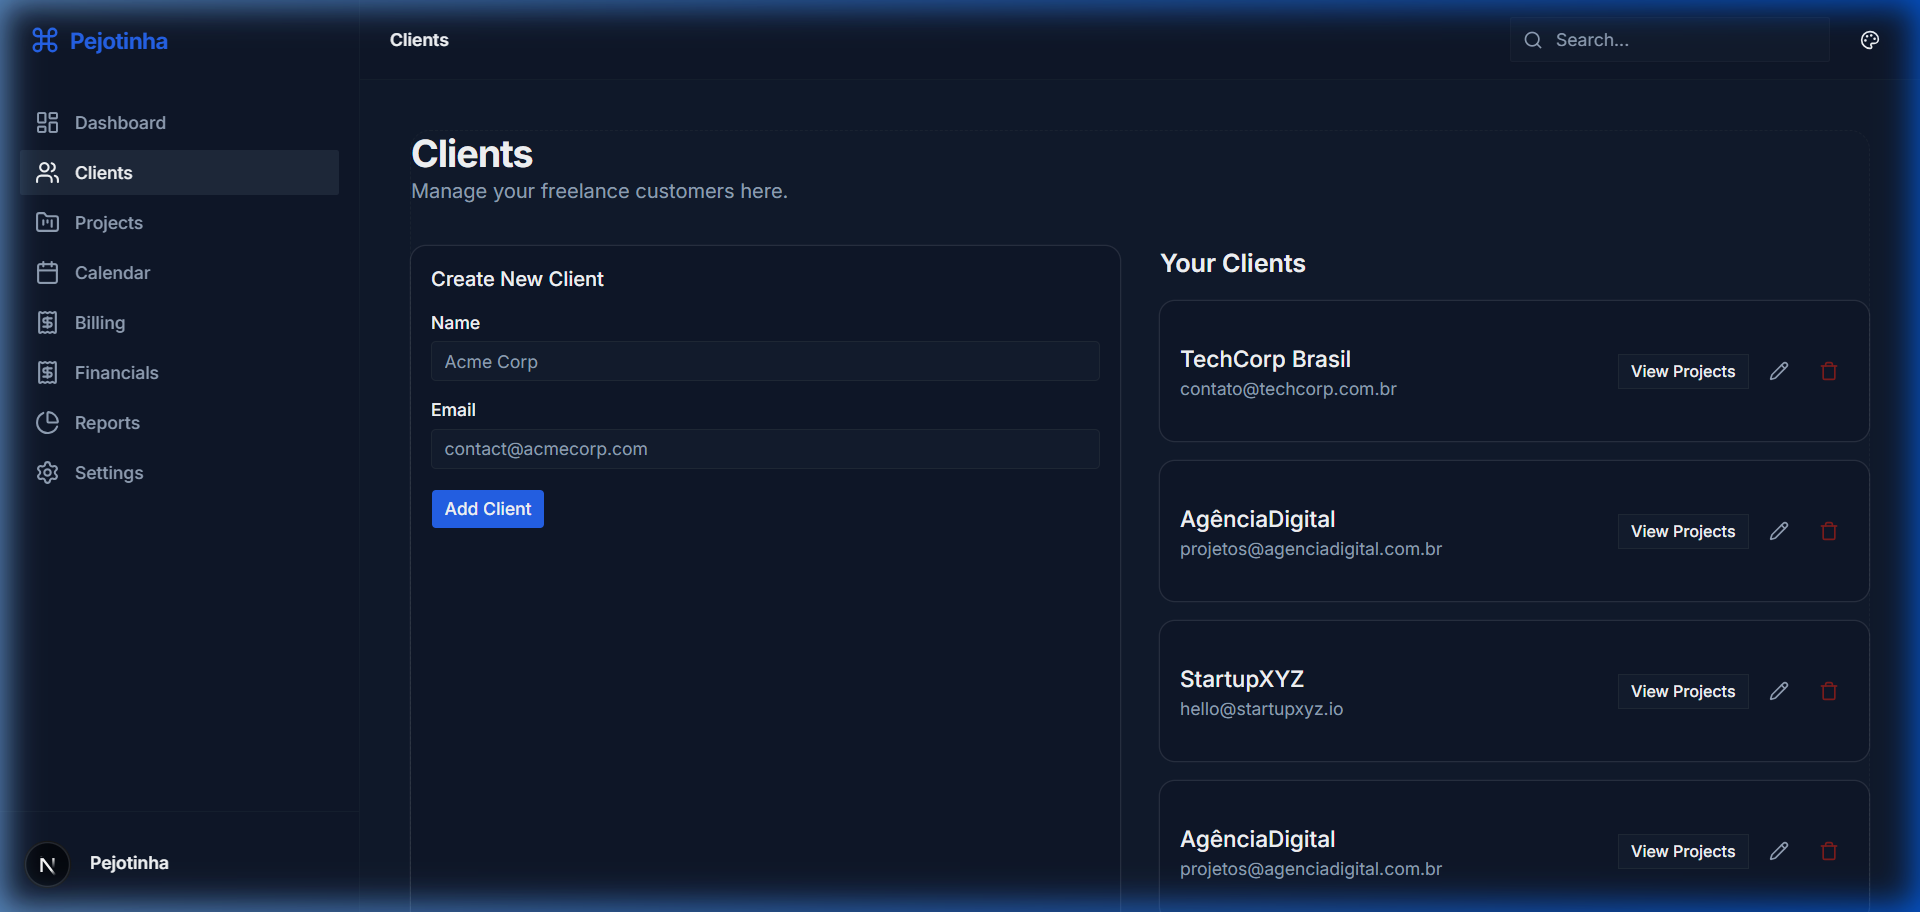
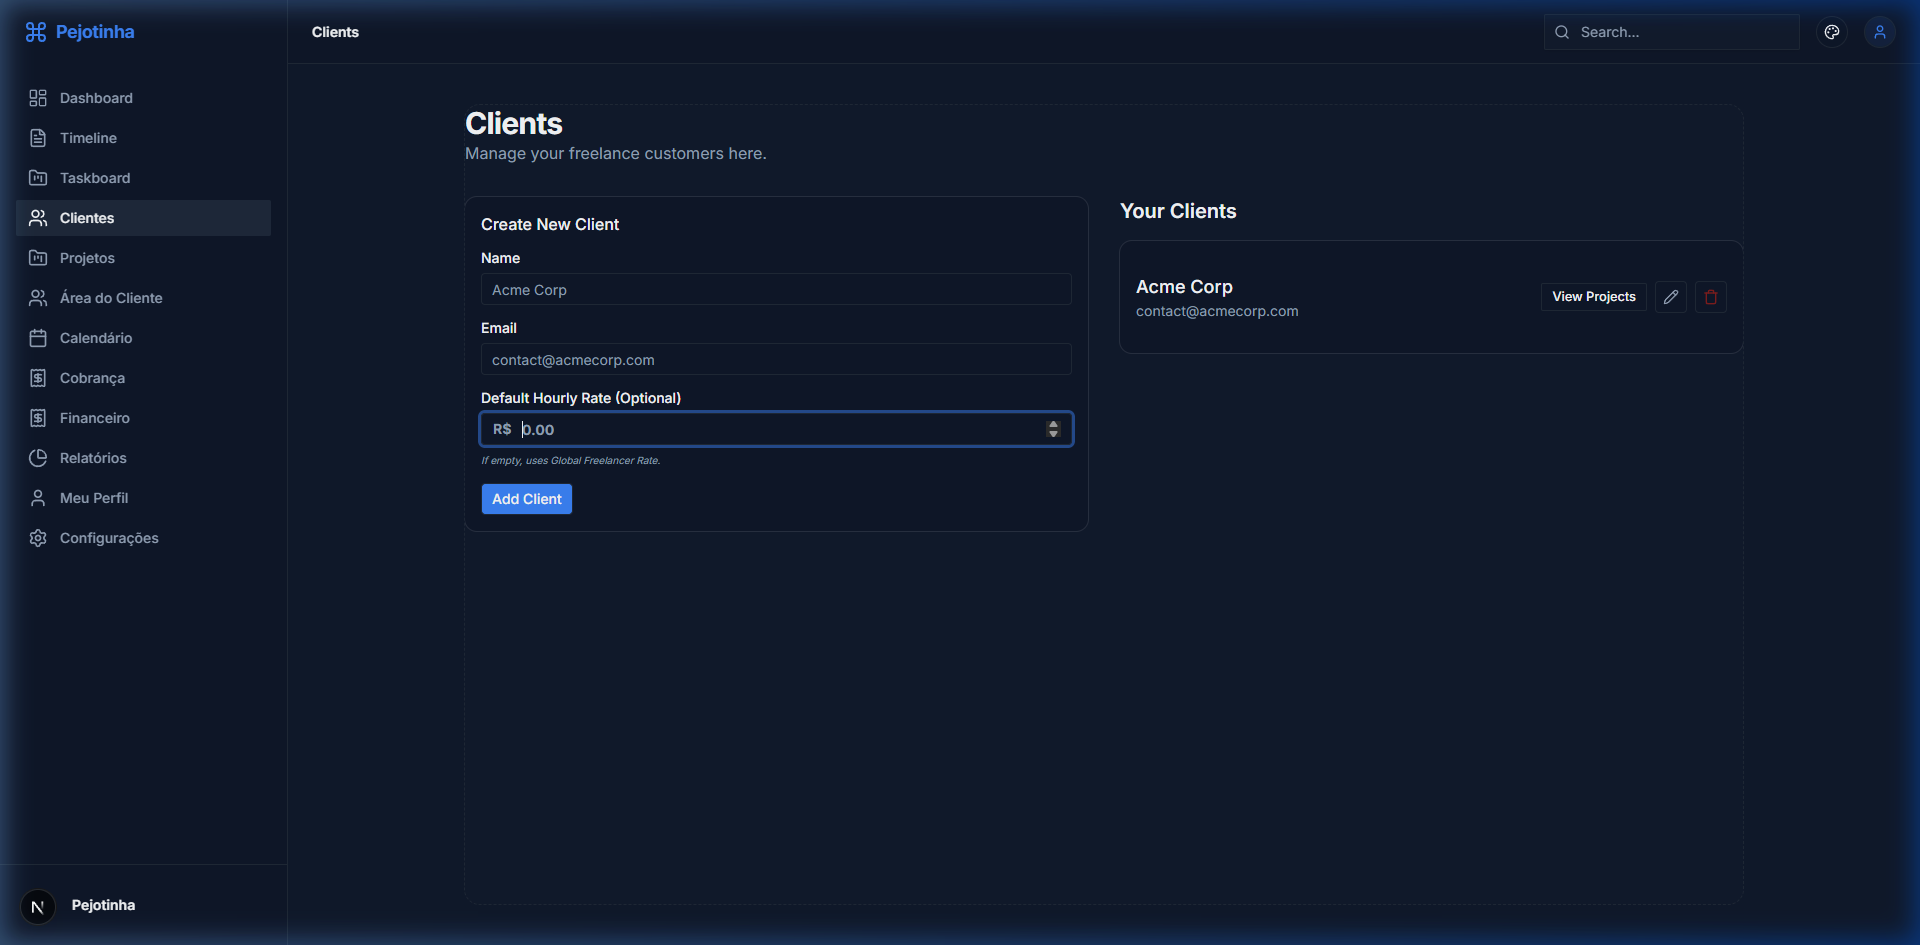
update screenshots

diff --git a/README.md b/README.md
@@ -161,8 +161,17 @@ Confira a [documentação de integrações](./docs/INTEGRATIONS.md) para saber c
 ### Access Control (SignUp/Login)
 ![Login](public/screenshots/login.png)
 
-### Project Management
+### Projects & Workspaces
 ![Projects](public/screenshots/projects.png)
+
+### Client Management
+![Clients](public/screenshots/clients.png)
+
+### Project Details & Tasks
+![Project Details](public/screenshots/project_details.png)
+
+### Activity Registration (AI Assisted)
+![Log Activity](public/screenshots/log_activity.png)
 
 ---
 
